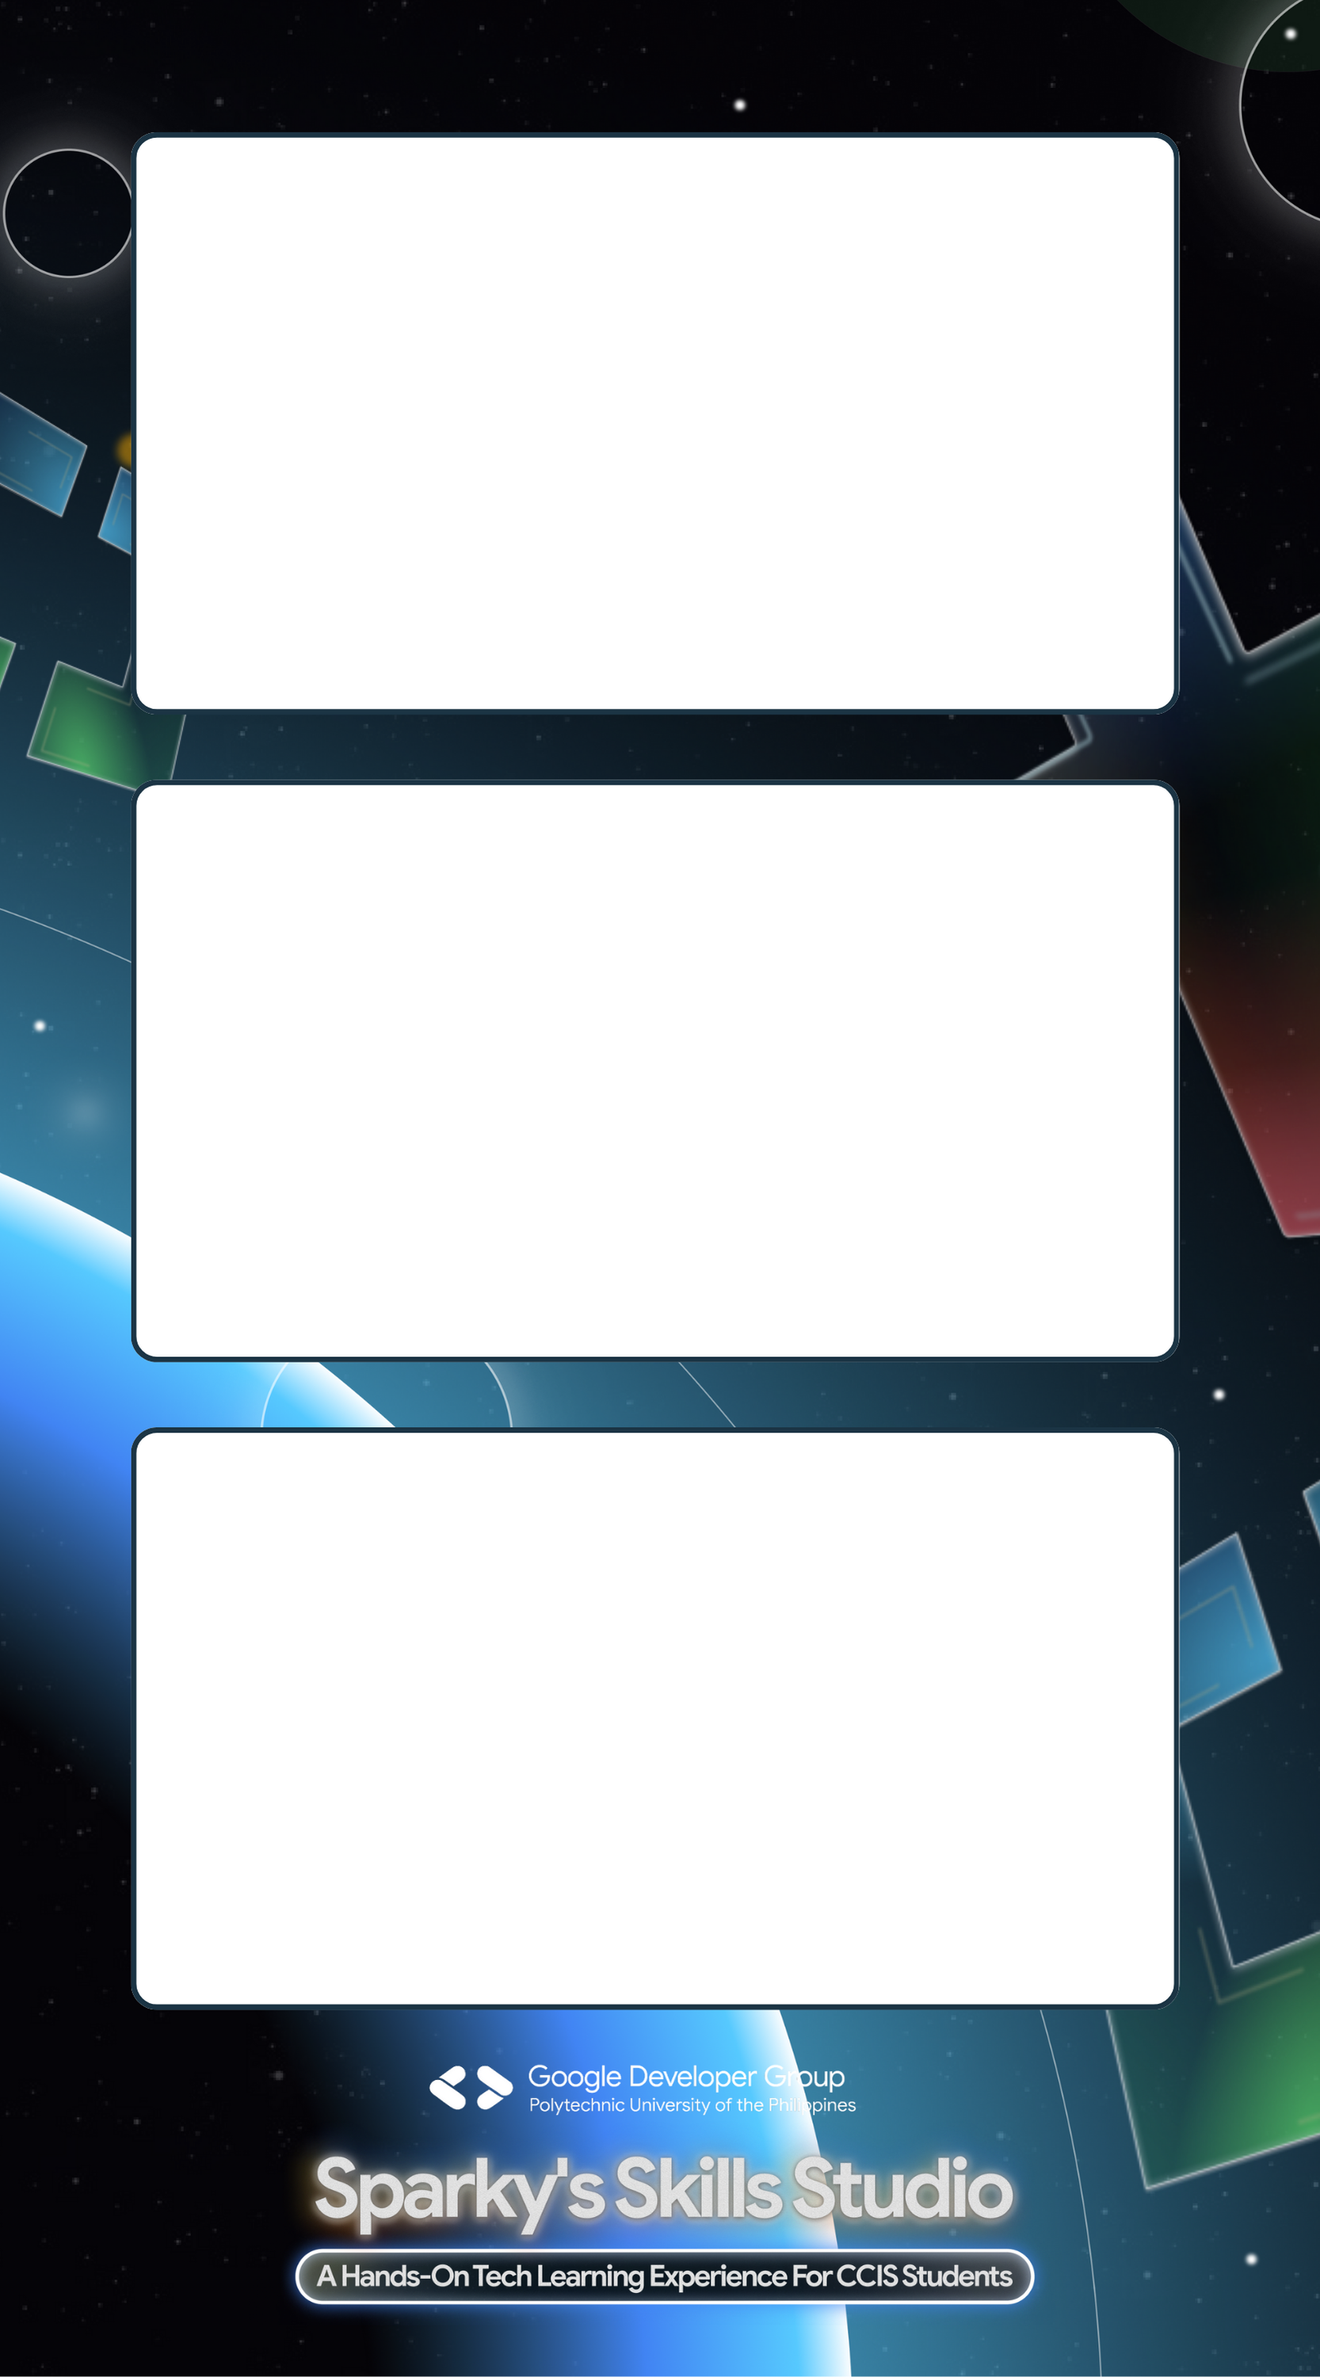
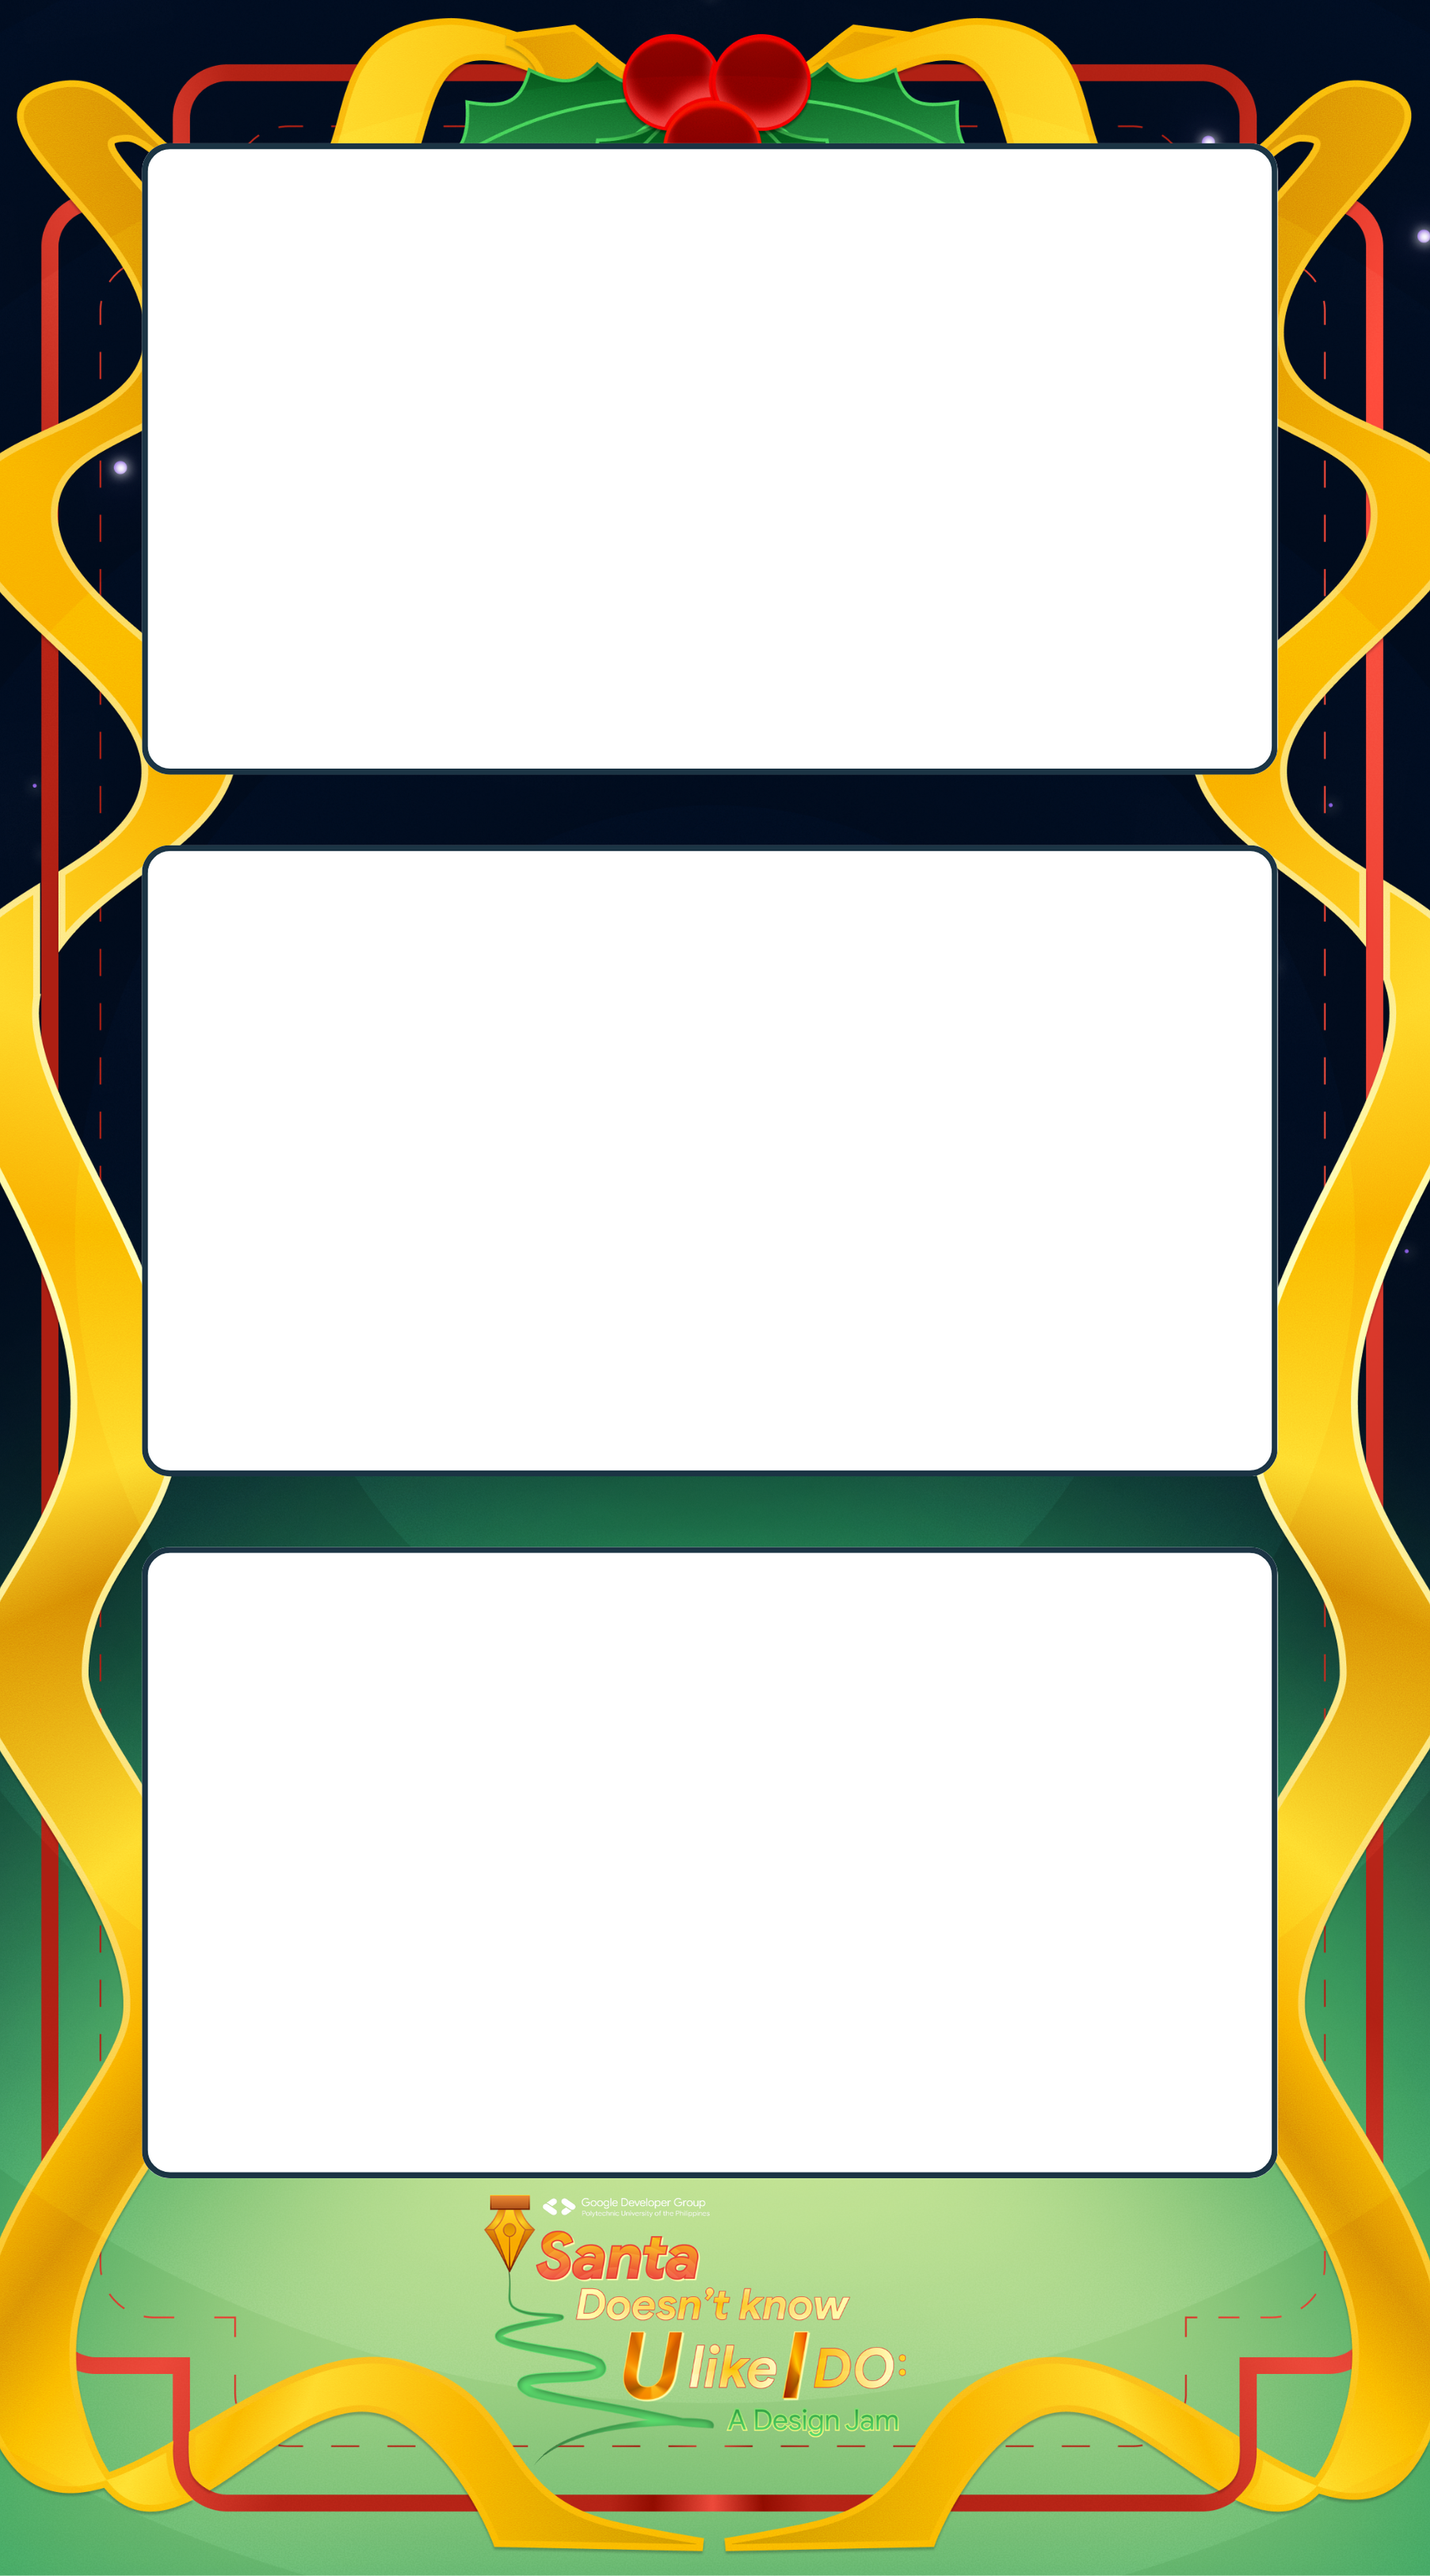
feat: update photostrip for prod (#5)
* docs: Add pull request template.

* feat: add a new photostrip (#4)

diff --git a/.github/PULL_REQUEST_TEMPLATE.md b/.github/PULL_REQUEST_TEMPLATE.md
@@ -1,0 +1,59 @@
+## 📋 Description
+
+<!-- Provide a brief summary of the changes. What does this PR do? -->
+
+## 🔗 Related Issue
+
+<!-- Link to the issue this PR addresses (if applicable) -->
+<!-- Example: Closes #123 or Fixes #456 -->
+
+## 🎯 Type of Change
+
+<!-- Mark the relevant option with an "x" -->
+
+- [ ] 🐛 Bug fix (non-breaking change that fixes an issue)
+- [ ] ✨ New feature (non-breaking change that adds functionality)
+- [ ] 💥 Breaking change (fix or feature that would cause existing functionality to not work as expected)
+- [ ] 📝 Documentation update
+- [ ] 🎨 Style/UI changes
+- [ ] ♻ Code refactor (no functional changes)
+- [ ] 🧪 Test updates
+- [ ] 🔧 Configuration changes
+
+## 📸 Screenshots / Demo
+
+<!-- If applicable, add screenshots or a demo video to showcase the changes -->
+
+| Before | After |
+|--------|-------|
+|        |       |
+
+## ✅ Checklist
+
+<!-- Mark completed items with an "x" -->
+
+- [ ] My code follows the project's code style guidelines
+- [ ] I have performed a self-review of my code
+- [ ] I have commented my code, particularly in hard-to-understand areas
+- [ ] I have made corresponding changes to the documentation
+- [ ] My changes generate no new warnings or errors
+- [ ] I have tested my changes locally
+- [ ] I have verified that `npm run build` completes successfully
+- [ ] Any dependent changes have been merged and published
+
+## 🧪 How to Test
+
+<!-- Provide step-by-step instructions on how to test the changes -->
+
+1. 
+2. 
+3. 
+
+## 💬 Additional Notes
+
+<!-- Add any additional context, notes, or concerns about this PR -->
+
+---
+
+**Reviewer Notes:**
+<!-- Space for reviewers to add their notes -->
